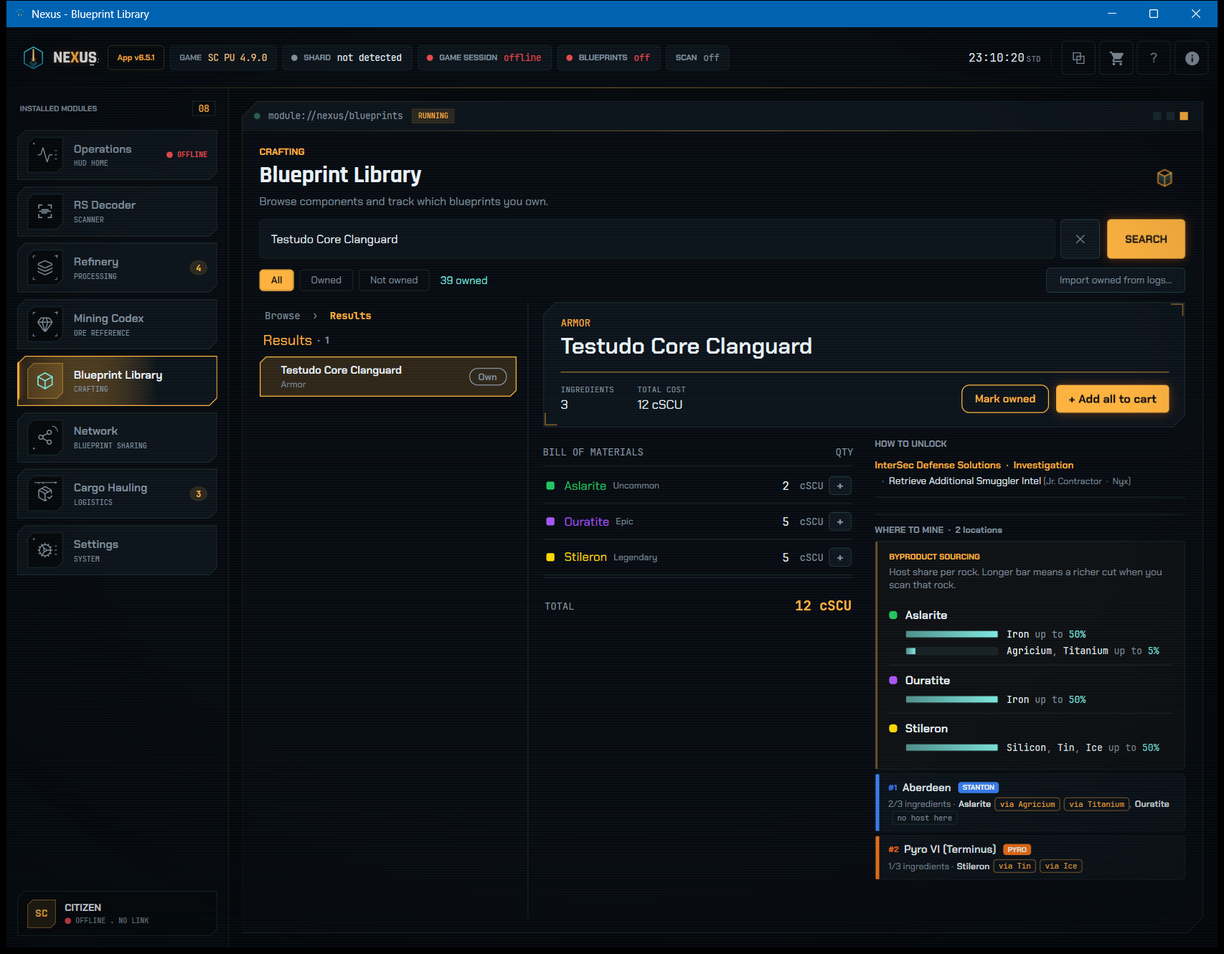
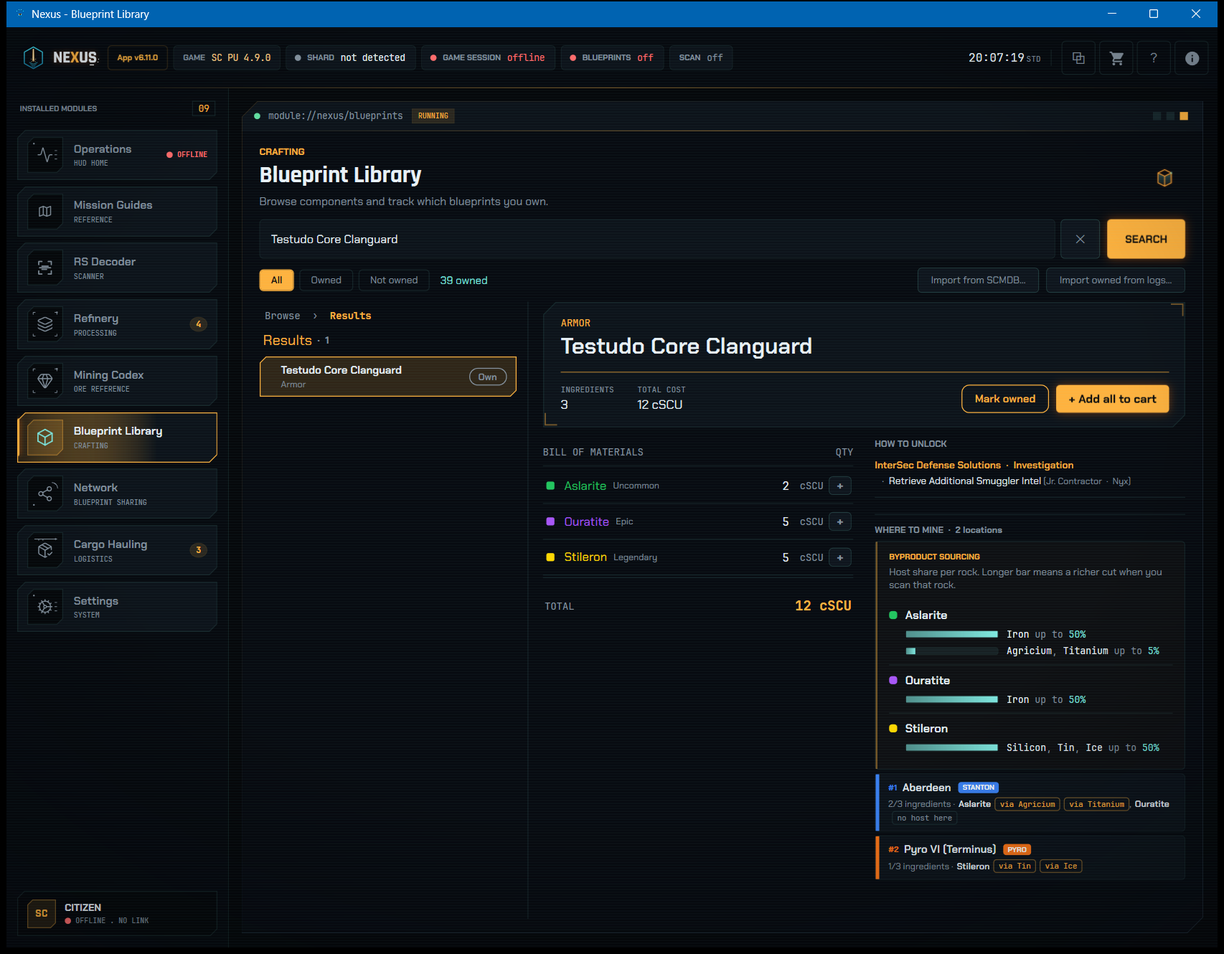
Refresh the docs and the screenshots for the v6.11.0 features
The overlay in-game screenshots stay pending recapture.

diff --git a/README.md b/README.md
@@ -15,7 +15,7 @@
 
 Nexus decodes RS scan values into a resource type and a node count. It times your refinery jobs. It also works as a searchable reference for resources, blueprints, and the blueprints that you own.
 
-Nexus reads `Game.log` for two purposes. It auto-collects blueprints the moment that you unlock them. It also merges your accepted hauling contracts into one consolidated route of pickup stops and delivery stops. An overlay shows all of this and floats over the game. None of this needs an internet connection.
+Nexus reads `Game.log` as you play. It auto-collects blueprints the moment that you unlock them. It merges your accepted hauling contracts into one consolidated route of pickup stops and delivery stops. It also shows your pilot handle and your recent server shards. An overlay shows all of this and floats over the game. None of this needs an internet connection.
 
 The **Blueprint Network** adds ownership tracking for friends or your org. You trade library files, and then everyone sees who owns what.
 
@@ -32,18 +32,21 @@ The **Blueprint Network** adds ownership tracking for friends or your org. You t
 | Page | What it does |
 |------|--------------|
 | **Operations** | The landing dashboard. It shows your last scan, the refinery queue, cargo in transit, session blueprints, and network coverage. It links to every module. |
+| **Mission Guides** | Zoomable maps and tactical reference guides, built into the app. The viewer zooms to your cursor, drags to pan, and double-clicks back to a full fit. The contested zone section shows the executive hangar lights and a live countdown. |
 | **RS Signal Decoder** | Enter an RS value by hand, or use **auto-scan**. Nexus identifies the resource and the node count. Each result card shows a CAN CONTAIN section and the best refinery station for the yield. |
 | **Refinery Tracker** | Track your active refinery jobs. Nexus shows live countdown timers and status indicators. |
 | **Mining Codex** | A full reference table of all mineable resources. Filter it by system (Stanton / Pyro / Nyx) and by method (Ship / ROC / FPS). Open an ore to see full details: its class, a ship-mining profile, its rock composition, and byproduct sourcing. |
-| **Blueprint Library** | Search ship, weapon, armor, and ammo blueprints. See the raw resources that each one needs, the contracts that unlock it, a ranked WHERE TO MINE plan, and byproduct sourcing. Mark the blueprints that you own. Filter by owned or not owned. |
+| **Blueprint Library** | Search ship, weapon, armor, and ammo blueprints. See the raw resources that each one needs, the contracts that unlock it, a ranked WHERE TO MINE plan, and byproduct sourcing. Mark the blueprints that you own. Filter by owned or not owned. Import your collection from an SCMDB export file, with a preview before anything applies. |
 | **Blueprint Network** | Share the blueprints that you own with friends or your org. Trade library files to do this. See who in your group owns what: coverage, the gaps to farm, and single-owner risk. Blueprint Network works fully offline. You exchange files, and nothing syncs. |
 | **Cargo Hauling** | The hauling contracts that you accept in-game appear automatically from `Game.log`. Nexus consolidates them into collect stops and deliver stops for each location. An optional screen-scan adds the reward, the contractor, and the cargo details to each haul. |
 
 **Highlights**
 
 - **Auto-scan overlay:** Draw a region over the RS value on your screen. Nexus then reads the value automatically with the native OCR engine in Windows.
-- **Overlay:** The overlay floats over the game. You can move it and dim it as you prefer. It passes your mouse through to the game when Star Citizen hides the cursor in flight or on foot. You can turn this off in Settings. The HUB tab shows hero tiles for ready refinery orders and your haul totals.
-- **Blueprint ownership tracking:** Mark the blueprints that you own. Filter the library by owned or not owned. Track your collection completion for each category. Then you do not need to check in-game.
+- **Overlay:** The overlay floats over the game with six tabs: HUB, SCAN, REFINERY, SHOPPING, HAULING, and GUIDES. Each tab is an icon, and the active tab expands into an amber pill with its name. A gear in the header opens quick settings in-game: ghost mode, click-through, opacity, and rail size. The overlay passes your mouse through to the game when Star Citizen hides the cursor in flight or on foot. You can turn this off in Settings. The HUB tab shows hero tiles for ready refinery orders and your haul totals.
+- **Ghost mode:** One toggle collapses the overlay to a slim icon rail. Click a glyph to slide that tab out beside the rail. Click the glyph again to collapse back. You can size the rail on its own, from 75% to 150%, separate from the panels.
+- **Mission Guides:** Browse zoomable maps and tactical reference guides on the Mission Guides page and in the overlay GUIDES tab. The contested zone guides show the executive hangar lights and a live open-close countdown. All guides ship inside the app, fully offline.
+- **Blueprint ownership tracking:** Mark the blueprints that you own. Filter the library by owned or not owned. Track your collection completion for each category. Then you do not need to check in-game. You can also import the blueprints that you own from an SCMDB export file. A preview shows exactly which blueprints will be marked owned before anything applies.
 - **Session Tracking:** Nexus reads your Star Citizen `Game.log`. It marks blueprints as Owned automatically the moment that you receive them in-game. It can also import everything that you already unlocked from past logs. Session Tracking is always on and read-only. It never writes to or modifies any game file.
 - **Cargo Hauling:** Accepted contracts appear on their own. Nexus makes a consolidated collect-and-deliver plan across all active hauls. It tracks the live shard. It cleans up automatically when you change shards.
 - **Guided tour and built-in user guide:** A welcome tour guides new users through Nexus. You can replay the tour anytime from Help. A searchable help guide covers every module.
@@ -53,7 +56,8 @@ The **Blueprint Network** adds ownership tracking for friends or your org. You t
 - **Crash recovery:** If Windows reports a display error, Nexus restarts itself once and shows a notice on the Operations dashboard. Your work orders and hauls are safe. The Diagnostics section in Settings has a CPU rendering toggle and a row for the last automatic restart.
 - **Offline by default:** You do not need an account. Nexus makes no network calls unless you enable one of two optional online features (update checks or live market prices). Nexus stores settings and work orders locally on your PC.
 - **Opt-in updates:** Nexus asks once whether it can check GitHub for new versions. If you say yes, it checks when Nexus starts, at most once a day, verifies every download, and asks before it installs anything.
-- **Opt-in live market prices:** Nexus asks once whether it can show live sell prices from UEX, a community-run price database. If you say yes, Nexus fetches prices about once an hour while it is open and caches them locally, so prices still show when you are offline. Prices show on the RS Signal Decoder, the Mining Codex, and the Refinery Tracker. UEX prices are community-reported and can be stale; Nexus marks the age of each price rather than presenting it as guaranteed-current.
+- **Opt-in live market prices:** Nexus asks once whether it can show live sell prices from UEX, a community-run price database. If you say yes, Nexus fetches prices about once an hour while it is open and caches them locally, so prices still show when you are offline. Prices show on the RS Signal Decoder, the Mining Codex, the Refinery Tracker, and the overlay scan cards. An optional sell column in the Mining Codex list compares ores at a glance. UEX prices are community-reported and can be stale; Nexus marks the age of each price rather than presenting it as guaranteed-current.
+- **Interface scale:** Grow the whole app and the overlay independently, from 100% to 150%, for high-resolution displays.
 
 ## Screenshots
 
@@ -61,6 +65,11 @@ The **Blueprint Network** adds ownership tracking for friends or your org. You t
 The landing dashboard. It shows the last scan decoded, the refinery queue with one order ready, cargo in transit, and the recent server shards. It links to every module.
 
 [![Nexus Operations dashboard with live KPI cards, refinery queue, active hauls, and server shard panel](docs/screenshots/operations.png)](docs/screenshots/operations.png)
+
+### Mission Guides
+Zoomable maps and tactical reference guides, built into the app. The contested zone header shows the executive hangar lights and a live countdown. Open a guide to zoom with the scroll wheel and drag to pan.
+
+[![Nexus Mission Guides page with the guide catalog, contested zone maps, and the executive hangar countdown](docs/screenshots/mission-guides.png)](docs/screenshots/mission-guides.png)
 
 ### Auto-scan, in the cockpit
 The overlay SCAN tab sits over Star Citizen during mining. The detection box surrounds the in-game RS readout. Nexus decodes the value live: it identifies **RS 11,700** as **Torite** (RS 3,900 x3 nodes, exact). The scan history fills in below.
@@ -78,7 +87,7 @@ Type any RS value to get a ranked breakdown. The best match shows as a hero card
 [![Nexus RS Decoder with a Torite exact match hero card, rock composition, and other close matches](docs/screenshots/rs-decoder.png)](docs/screenshots/rs-decoder.png)
 
 ### Blueprint Library
-Open any blueprint to see its full bill of materials and the contracts that unlock it. It also shows a ranked WHERE TO MINE plan and byproduct sourcing for the ingredients. Track everything that you own.
+Open any blueprint to see its full bill of materials and the contracts that unlock it. It also shows a ranked WHERE TO MINE plan and byproduct sourcing for the ingredients. Track everything that you own, or import your collection from an SCMDB export file.
 
 [![Nexus Blueprint Library showing a blueprint's bill of materials, unlock contracts, where to mine plan, and byproduct sourcing](docs/screenshots/blueprint-library.png)](docs/screenshots/blueprint-library.png)
 
@@ -88,7 +97,7 @@ Group coverage: the coverage ring, per-member ownership, and a watch list. The w
 [![Nexus Blueprint Network showing group blueprint coverage ring, per-member ownership, and watch list](docs/screenshots/blueprint-network.png)](docs/screenshots/blueprint-network.png)
 
 ### Mining Codex
-A full reference of every mineable resource. It is searchable. Filter it by star system (Stanton / Pyro / Nyx) and by mining method (Ship / ROC / FPS). A detail dossier shows the mining profile, the rock composition, byproduct sourcing, locations, and the blueprints that use it.
+A full reference of every mineable resource. It is searchable. Filter it by star system (Stanton / Pyro / Nyx) and by mining method (Ship / ROC / FPS). A detail dossier leads with the value section: the refinery yields, and the best sell price when market data is on. It also shows the mining profile, the rock composition, byproduct sourcing, locations, and the blueprints that use it.
 
 [![Nexus Mining Codex resource list with rarity colors and a Gold dossier showing the mining profile and rock composition](docs/screenshots/mining-codex.png)](docs/screenshots/mining-codex.png)
 
@@ -137,9 +146,9 @@ Run Nexus directly. You do not need to install it.
 6. Right-click `NexusApp_portable.zip` again.
 7. Select **Extract All…**.
 8. Choose a location, for example the Desktop or Documents.
-9. Open the extracted folder.
+9. Open the extracted folder. Then open the **NexusApp** folder inside it.
 
-**Caution:** Keep all the files in the extracted folder together.
+**Caution:** Keep all the files in the NexusApp folder together.
 
 10. Double-click **`NexusApp.exe`** to start Nexus.
 
@@ -163,6 +172,7 @@ Every download and install asks first. You can always update by hand from the [R
 - **CommunityToolkit.Mvvm** for MVVM
 - **Microsoft.Data.Sqlite** for local storage
 - **Windows.Media.Ocr** (native WinRT OCR engine) for the auto-scan feature
+- **Microsoft.Web.WebView2** for one beta 3D view (local, bundled content only; no external navigation)
 
 **Project layout**
 
@@ -177,8 +187,11 @@ NexusApp/
    ├─ Services/                 # OCR, scanning, data, settings
    ├─ ViewModels/               # MVVM view models
    ├─ Views/                    # Windows, dialogs, overlay
+   ├─ Web/                      # Vendored web content for the WebView2 view
    └─ Themes/                   # Game-styled WPF theme
 ```
+
+The `NexusApp.Tests` project holds the xUnit test suite.
 
 </details>
 

diff --git a/ARCHITECTURE.md b/ARCHITECTURE.md
@@ -29,11 +29,15 @@ app makes a network call.
 +----------------------------v------------------------------+
 |  Services                                                 |
 |  Data | Ocr | Scanner | Settings | Theme |                |
-|  GameLog(Session/Watcher/Importer) |                      |
+|  GameLogFeed -> Session / Hauling / Shard | Importer |    |
 |  Hauling(HaulTracker/Parser/Contract/Shard) |             |
 |  Network(File/Store/Scope) |                              |
 |  Update(Service/Verifier/Manifest/Notice) |               |
 |  Market(DataService/Snapshot/NameMap/Queries/Notice) |    |
+|  Guides(Catalog) | ExecHangarCycle |                      |
+|  Overlay(Tabs/GhostGeometry/GhostFootprints) |            |
+|  ScmdbImport(Parser/Plan) |                               |
+|  UiScaleService |                                         |
 |  PortableUpdater / SwapJournal (portable self-update) |   |
 |  Diagnostics(CrashGuard/Breadcrumbs/Sanitizer/Notice) |   |
 |  Logger / InteractionLog / ForegroundMonitor              |
@@ -53,11 +57,23 @@ The Views are the WPF windows and dialogs. The two main surfaces are
 **OverlayWindow** is a compact panel. **OverlayWindow** stays always-on-top and
 floats over the game.
 
+**MainWindow** shows one dock page at a time. `GuidesPage` is the Mission
+Guides dock page: a category-grouped card grid over the shared `GuideCatalog`.
+Clicking a card hands the page over to `GuideViewer`, a zoom-and-pan image
+view shared with the overlay.
+
+**OverlayWindow** shows the same tabs in a compact strip, `OverlayTabStrip`,
+where the active tab expands into an amber pill and the rest show only their
+icon. Ghost mode replaces this strip with `OverlayGhostRail`, a narrow
+vertical icon rail with a per-tab flyout, for a smaller footprint over the
+game.
+
 Supporting windows include:
 - the region selector for auto-scan
 - the toast and scan-indicator popups
 - the app-log monitor
 - the settings, about, and help dialogs
+- the SCMDB import preview and result dialogs (`ScmdbImportResultDialog`)
 
 ### ViewModel (`ViewModels/MainViewModel.cs`)
 Both the main window and the overlay share a single **MainViewModel** instance.
@@ -107,13 +123,49 @@ The view model controls these services. Each service holds little or no state.
   `%AppData%\NexusApp\cache\uex_snapshot.json` and reloads it at startup, so the
   last fetched prices still show when Nexus is offline. `MarketNameMap` links
   the seed's raw resource names to UEX's commodity names and their refined
-  counterparts. `MarketQueries` is the pure read layer that the RS Signal
-  Decoder, the Mining Codex, and the Refinery Tracker call for a priced hit.
-  `MarketNotice` holds the feature's user-facing copy (the consent strip, the
-  Settings section, the source note), mirroring `UpdateNotice`. Consent is a
-  tri-state setting, `MarketDataEnabled` (null = unanswered, true/false = the
-  user's standing choice), the same pattern as the update-check toggle, and it
-  lives in its own Settings section rather than under Diagnostics.
+  counterparts. `MarketQueries` is the pure read layer. The RS Signal Decoder,
+  the Mining Codex, the Refinery Tracker, and the overlay's own scan cards
+  (`OverlayWindow.FillMarketSell` / `RefreshMarketSellLines`) all call it for a
+  priced hit. `MarketNotice` holds the feature's user-facing copy (the consent
+  strip, the Settings section, the source note), mirroring `UpdateNotice`.
+  Consent is a tri-state setting, `MarketDataEnabled` (null = unanswered,
+  true/false = the user's standing choice), the same pattern as the
+  update-check toggle. The toggle sits in the Settings UPDATES tab, in its own
+  Market Data section next to the update check, not under Diagnostics.
+- **GuideCatalog** - the single source of truth for the Mission Guides feature.
+  Each entry is one curated guide image: an id, a title, a category, an
+  embedded PNG resource, and its native pixel size. `GuidesPage` and the
+  overlay's GUIDES tab both read this one list, so a guide added once shows on
+  both surfaces.
+- **ExecHangarCycle** - pure, deterministic math for the PYAM contested-zone
+  Executive Hangar cycle (see Key flows). It computes the open/closed phase,
+  how many dots are lit, and the next few open times. The instant it starts
+  from is one compiled-in anchor timestamp, or a user re-anchor override
+  stored in settings. The caller supplies the clock, so every phase boundary
+  is unit-testable.
+- **OverlayTabs** - tab identity and the restore rule for the overlay's tab
+  strip. It holds the id list and the display label per tab. A guard falls
+  back to the default tab on an unknown or stale saved id. This is kept out
+  of the WPF view so the guard is testable headlessly, the same split
+  `SettingsTabs` uses for the Settings page.
+- **GhostGeometry / GhostFootprints** - pure placement and sizing math for the
+  overlay's ghost mode (see Key flows). `GhostGeometry` decides which way a
+  collapsed rail expands. It clamps every rect to the monitor. All of this is
+  in physical pixels. A Per-Monitor-DPI V2 lesson requires it: DIP
+  positioning can land a window on the wrong monitor at a DPI boundary.
+  `GhostFootprints` turns the rail scale and the panel scale into window
+  sizes for the collapsed rail, the expanded panel, and the gear flyout.
+- **UiScaleService** - the app-wide UI scale. It holds two persisted scale
+  factors: one for the main window and dialogs, one for the overlay. Each
+  factor applies as a `LayoutTransform` on a window's root element. A third,
+  independent factor scales the ghost rail alone, from 0.75 to 1.5. This
+  floor sits below the 1.0 floor of the other two factors, because the
+  rail exists to keep the footprint small.
+- **ScmdbExportParser / ScmdbImportPlan** - the SCMDB import subsystem (see Key
+  flows). `ScmdbExportParser` never throws: a bad or oversized file comes back
+  as a clear error instead of a crash. `ScmdbImportPlan` is the pure,
+  add-only bucketing of an export's completed blueprints into names to
+  import, names already owned, and unrecognized names.
 - **PortableUpdater / SwapJournal** - the portable self-update (see Key flows).
   PortableUpdater verifies the download again on one open file handle, unpacks
   it, and verifies each file. It then replaces the app's files with journaled
@@ -146,6 +198,17 @@ types.
   keys to their official names. The build refreshes it for each game patch.
 - **User data** (settings, work orders, and the owned-blueprint library) is on
   disk in the per-user app-data folder. NexusApp stores it with SQLite and JSON.
+- **Settings recovery.** NexusApp writes `settings.json` with a
+  write-temp-then-replace step (`File.Replace`). This step is atomic on the
+  same volume and keeps the previous good copy as `settings.json.bak`, so a
+  crash mid-write never leaves a truncated file as the only copy. If
+  `settings.json` fails to load, NexusApp moves the unreadable file aside as a
+  timestamped `.corrupt-` file for diagnosis, then tries `settings.json.bak`,
+  and falls back to fresh defaults only when neither file reads back cleanly.
+  NexusApp re-persists the recovered file right away, not only on the next
+  user-triggered save. The same rule applies after a schema migration, so a
+  recovered or migrated file is not lost if the app closes without a clean
+  shutdown.
 - **Blueprint Network** uses a separate local `network.db`. It exchanges
   `.nexuslib` files that the user moves by hand. Nothing syncs automatically.
 - **Versioning** comes from one source: the `<Version>` in
@@ -226,6 +289,83 @@ adds the reward, the contractor, and the cargo details to the matching haul.
 `ShardTracker` and `ShardLogParser` read the shard join lines. They keep the
 recent server and shard list. `ContractCapCatalog` is an embedded table. It maps
 each contract to its container size in SCU. The `Haul` model holds the haul state.
+
+### Mission Guides
+`GuideCatalog` is the single list of curated guide images. Each entry names a
+PNG the build embeds as a resource, and carries its native pixel size for the
+zoom and fit math. `GuidesPage` shows the catalog as a category-grouped card
+grid on the main window. The overlay's GUIDES tab shows the same catalog as a
+compact list. Both surfaces open the same shared `GuideViewer` to show one
+guide at full size.
+
+`GuideViewer` is mouse only. The wheel zooms on the cursor position. A left
+drag pans the image. A double click resets the view to fit. `GuideViewer`
+never decodes a bitmap above its native size. It decodes at about twice the
+viewport width until the user zooms past that point, then it decodes once
+more at full size. The overlay caps this decode at a lower size, because it
+never shows a guide this large on screen.
+
+### Executive Hangar timer
+`ExecHangarCycle` computes the state of the PYAM contested-zone Executive
+Hangar rotation. The cycle has a fixed open phase, then a fixed closed phase,
+repeating from one compiled-in anchor timestamp. The math is pure. It takes
+the current time as a parameter, so every phase boundary has a test.
+
+A user can re-anchor the cycle from the current moment, for example after a
+game patch shifts the schedule. NexusApp stores this override in settings and
+uses it in place of the built-in anchor until the user resets it.
+
+`ExecHangarStatusLine` is the one control that shows this state. NexusApp uses
+the same control on the Guides page, in the Contested Zones section header,
+and in the overlay's GUIDES tab. This shared control keeps both surfaces the
+same. The control owns its own timer. The host page starts the timer on entry
+and stops it on exit.
+
+### Overlay tab strip and ghost mode
+`OverlayTabs` holds the tab id list and the display label for each tab. This
+is the single source that both `OverlayTabStrip` and `OverlayGhostRail` read,
+so the two surfaces always agree on which tabs exist.
+
+`OverlayTabStrip` is the overlay's normal-mode tab row. The active tab expands
+into a chamfered, amber pill with an icon and a label. Each other tab shows
+only its icon, with a hover chip for the label. A small badge on a tab's icon
+shows a count when one applies.
+
+Ghost mode replaces this row with `OverlayGhostRail`, a narrow vertical icon
+rail with the same tabs. A settings gear and a close glyph sit at the bottom
+of the rail, for a smaller footprint over the game. `GhostGeometry` decides
+which side of the rail a flyout or the expanded panel opens toward. It grows
+toward the monitor's center, and it clamps every rect to stay on the
+monitor. `GhostFootprints` turns the independent rail scale and the
+overlay's own UI scale into the window sizes: the collapsed rail, the
+expanded panel, and the gear flyout. This math works in physical pixels
+throughout, because DIP positioning can land a window on the wrong monitor
+at a Per-Monitor-DPI V2 boundary.
+
+A quick-settings flyout holds the ghost-mode toggle, the click-through-in-FPS
+toggle, the opacity slider, and the rail-size slider. NexusApp builds it once,
+lazily, inside the overlay window. The overlay header's own gear button
+(normal mode) and the ghost rail's gear button open this same flyout.
+
+### SCMDB import
+NexusApp can import a one-time blueprint-tracking export from the SCMDB
+community website. `ScmdbExportParser` reads the export's JSON text and never
+throws. A bad or oversized file (over 5 MB) comes back as a clear error
+message in place of a crash.
+
+`ScmdbImportPlan` sorts the export's completed blueprints into three buckets:
+names to mark owned, names already owned, and names NexusApp does not
+recognize. Import is add-only. No step in this feature ever un-marks a
+blueprint.
+
+Name resolution reuses the same official-name and localization pipeline the
+`Game.log` importer uses (`GameLogSession.ResolveName`). So a modded or
+renamed blueprint name resolves the same way through either import path.
+
+`ScmdbImportFlow` drives the whole run: pick a file, parse it, build the plan,
+then show `ScmdbImportResultDialog` as a preview and confirm gate. NexusApp
+marks nothing owned until the user confirms. Cancelling at any point,
+including closing the preview dialog, applies nothing and logs nothing.
 
 ### Blueprint Network (offline sharing)
 A user exports their owned-blueprint library to a `.nexuslib` file. The user

diff --git a/SECURITY.md b/SECURITY.md
@@ -41,7 +41,7 @@ Nexus has a small attack surface by design. Because no software is free of all v
 
 - **Offline by default.** Nexus makes no network calls out of the box. Two features are opt-in and network-capable: update checks and live market prices. Nothing is contacted for either one unless you enable it (or click a manual action yourself: Check now for updates, Refresh now for market data), and you can confirm that with a firewall. There is no telemetry and no account for either feature.
 - **Update checks.** Opt-in: nothing is contacted unless you enable them or click Check now yourself. With checks enabled, Nexus contacts GitHub only (github.com and GitHub's own file-download host), fetches the latest version number and release files, and sends nothing about you or your data beyond the connection itself (GitHub sees your IP address, as with any web request). The toggle lives in Settings > Updates.
-- **Live market prices.** Opt-in: nothing is contacted unless you enable them yourself, through the one-time consent prompt or the toggle in Settings > Market Data. With this feature enabled, Nexus makes anonymous, read-only GET requests to UEX's community API at `api.uexcorp.uk`, about once an hour while Nexus is open, to fetch sell prices for ores and refined goods. The requests carry no account and no key, and send nothing about you: only a `NexusApp-Market/<version>` user agent identifies the app itself, the same way a browser identifies itself to a website. Nexus requires the connection to be HTTPS and caps how much a response can hold. Prices are cached locally in `%AppData%\NexusApp\cache`, so Nexus still shows the last fetched prices when it is offline. UEX prices are community-reported and can be stale; Nexus shows the age of each price rather than presenting it as guaranteed-current.
+- **Live market prices.** Opt-in: nothing is contacted unless you enable them yourself, through the one-time consent prompt or the toggle in Settings > Updates, in the Market data section. With this feature enabled, Nexus makes anonymous, read-only GET requests to UEX's community API at `api.uexcorp.uk`, about once an hour while Nexus is open, to fetch sell prices for ores and refined goods. The requests carry no account and no key, and send nothing about you: only a `NexusApp-Market/<version>` user agent identifies the app itself, the same way a browser identifies itself to a website. Nexus requires the connection to be HTTPS and caps how much a response can hold. Prices are cached locally in `%AppData%\NexusApp\cache`, so Nexus still shows the last fetched prices when it is offline. UEX prices are community-reported and can be stale; Nexus shows the age of each price rather than presenting it as guaranteed-current.
 - **Signed updates.** Update information is a manifest signed with a key held offline by the maintainer. The app verifies the signature and the file hashes before anything is installed, refuses downgrades, and asks you before every download and every install. A compromised download source or repository cannot make Nexus install anything: at worst, updates stop appearing.
 - **Portable self-update.** The portable version can install an update itself. Nexus does the update while it is open, and then restarts as the new version. No helper program runs, and no script runs. The signed manifest format does not change. Nexus does the update in this order:
   - Nexus verifies the download against the signed manifest.
@@ -61,6 +61,7 @@ Nexus has a small attack surface by design. Because no software is free of all v
   - The Blueprint Network feature also reads your RSI handle from `Game.log` as read-only. Blueprint Network uses your RSI handle to pre-fill an export. You can use a nickname instead of your RSI handle.
 - **Your data stays local.** Nexus stores your settings, work orders, and blueprint library on your PC. Nexus shares nothing unless you export a file yourself and give it to someone.
 - **Safe import of shared files.** Another player can share a `.nexuslib` library file with you. Nexus limits the size of this file before it reads the file. Nexus also limits the member count and the blueprint count in the file. Nexus cleans the text from the file before the text goes to the log.
+- **Safe import of SCMDB export files.** The Blueprint Library can import an SCMDB export file. Nexus limits the size of this file before it reads the file. A bad file cannot crash the import; Nexus shows an error instead. The import only adds ownership marks, and only after you confirm the preview.
 - **No personal data collected.** Diagnostic logs record app events only. These logs record no window titles and no game content. These logs self-rotate.
 
 ## How the project checks the code
@@ -76,5 +77,6 @@ Nexus uses only a small set of dependencies:
 
 - `Microsoft.Data.Sqlite` gives access to the local database.
 - `CommunityToolkit.Mvvm` gives the MVVM support code for the UI.
+- `Microsoft.Web.WebView2` shows one beta 3D view. The view loads only bundled local content and blocks all external navigation.
 
-Both are widely-used packages from Microsoft and the .NET Foundation.
+All three are widely-used packages from Microsoft and the .NET Foundation.

diff --git a/.github/release_body.md b/.github/release_body.md
@@ -11,10 +11,12 @@ Select the download that you want.
 
 | | |
 |:--:|:--:|
-| [<img src="https://raw.githubusercontent.com/T3SoD/NexusApp/main/docs/screenshots/overlay.jpg" width="420">](https://raw.githubusercontent.com/T3SoD/NexusApp/main/docs/screenshots/overlay.jpg) | [<img src="https://raw.githubusercontent.com/T3SoD/NexusApp/main/docs/screenshots/blueprint-library.png" width="420">](https://raw.githubusercontent.com/T3SoD/NexusApp/main/docs/screenshots/blueprint-library.png) |
+| [<img src="https://raw.githubusercontent.com/T3SoD/NexusApp/main/docs/screenshots/overlay-scan.png" width="420">](https://raw.githubusercontent.com/T3SoD/NexusApp/main/docs/screenshots/overlay-scan.png) | [<img src="https://raw.githubusercontent.com/T3SoD/NexusApp/main/docs/screenshots/blueprint-library.png" width="420">](https://raw.githubusercontent.com/T3SoD/NexusApp/main/docs/screenshots/blueprint-library.png) |
 | **Auto-scan overlay** - decodes RS values live over the game | **Blueprint Library** - recipes, ingredients, and unlock missions |
 | [<img src="https://raw.githubusercontent.com/T3SoD/NexusApp/main/docs/screenshots/mining-codex.png" width="420">](https://raw.githubusercontent.com/T3SoD/NexusApp/main/docs/screenshots/mining-codex.png) | [<img src="https://raw.githubusercontent.com/T3SoD/NexusApp/main/docs/screenshots/refinery-tracker.png" width="420">](https://raw.githubusercontent.com/T3SoD/NexusApp/main/docs/screenshots/refinery-tracker.png) |
 | **Mining Codex** - full resource reference, filterable | **Refinery Tracker** - live countdown timers for jobs |
+| [<img src="https://raw.githubusercontent.com/T3SoD/NexusApp/main/docs/screenshots/mission-guides.png" width="420">](https://raw.githubusercontent.com/T3SoD/NexusApp/main/docs/screenshots/mission-guides.png) | [<img src="https://raw.githubusercontent.com/T3SoD/NexusApp/main/docs/screenshots/operations.png" width="420">](https://raw.githubusercontent.com/T3SoD/NexusApp/main/docs/screenshots/operations.png) |
+| **Mission Guides** - zoomable maps with the executive hangar countdown | **Operations** - the landing dashboard that links every module |
 
 ---
 
@@ -38,10 +40,11 @@ Run Nexus directly. Nexus needs no installation.
 3. Right-click the ZIP file. Select **Extract All…**. Select a location, for example the Desktop or the Documents folder.
 
    **Caution:** Keep all the files in the folder together.
-4. Open the extracted folder. Double-click **`NexusApp.exe`**.
+4. Open the extracted folder. Then open the **NexusApp** folder inside it. Double-click **`NexusApp.exe`**.
 
 - Nexus needs no installation. It writes nothing to the registry.
-- Nexus leaves no traces on the system. To remove Nexus completely, delete the folder.
+- Nexus stores settings and work orders under `%APPDATA%\NexusApp`. To remove Nexus completely, delete the app folder and that data folder.
+- With update checks on, the portable can install a new version in place and restart. Updates stay off until you say yes.
 - You can move Nexus between PCs. You can also run Nexus from a USB stick.
 
 ---
@@ -50,9 +53,15 @@ Run Nexus directly. Nexus needs no installation.
 
 ### Features
 - **RS Signal Decoder** - enter values manually or use auto-scan to find the resource and the node count
-- **Blueprint Library** - search blueprints and see the raw resources that a blueprint needs
+- **Blueprint Library** - search blueprints, see the resources and the unlock contracts, and track what you own; import ownership from an SCMDB export file
+- **Blueprint Network** - pool owned-blueprint libraries with your org by trading files, fully offline
 - **Mining Codex** - a full resource reference that you can filter by system and by method
 - **Refinery Tracker** - live countdown timers for refinery jobs
+- **Cargo Hauling** - accepted contracts appear from `Game.log` and consolidate into one route plan
+- **Mission Guides** - zoomable maps and tactical guides, with the executive hangar countdown
+- **In-game overlay** - six tabs float over the game; ghost mode collapses the overlay to a slim icon rail
+- **Live market prices (optional)** - refined sell prices from UEX community data, off by default
+- **Update checks (optional)** - opt in once; the portable can install updates itself
 
 ---
 *Nexus is not affiliated with, endorsed by, or sponsored by Cloud Imperium Games or Roberts Space Industries. Star Citizen®, Roberts Space Industries® and Cloud Imperium® are registered trademarks of Cloud Imperium Rights LLC.*
